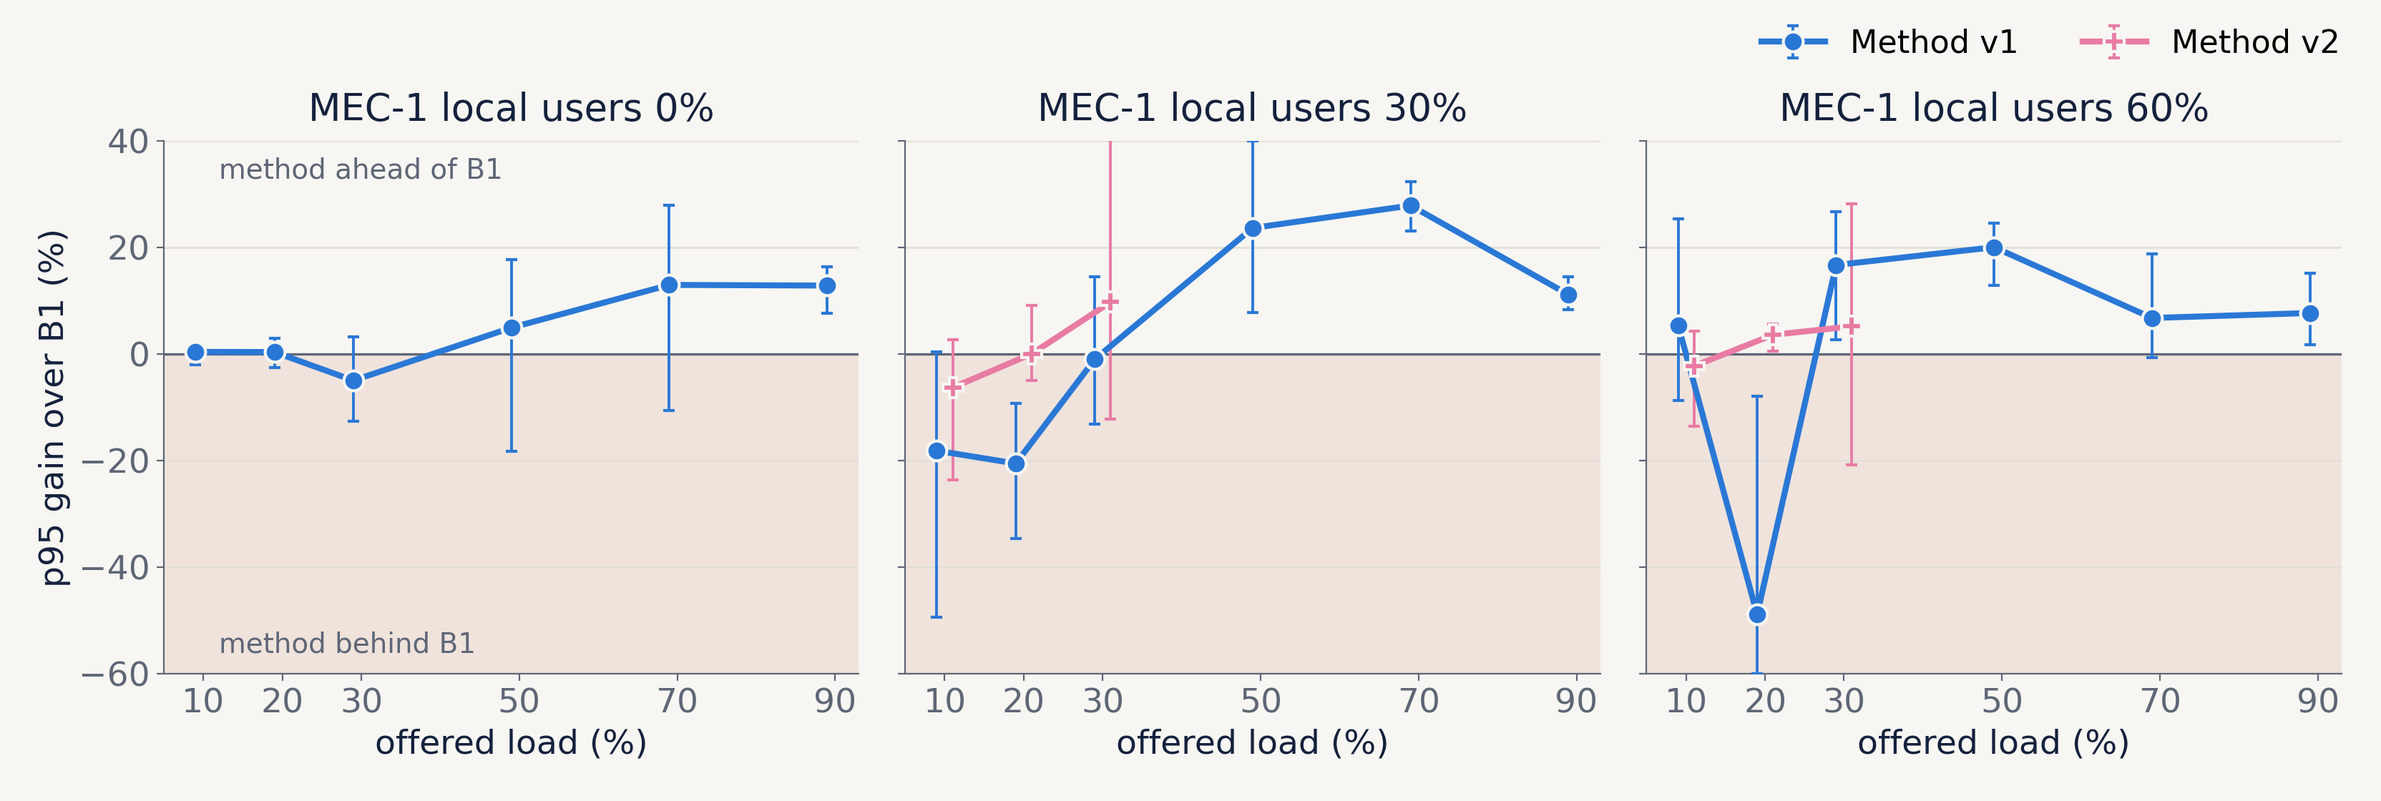
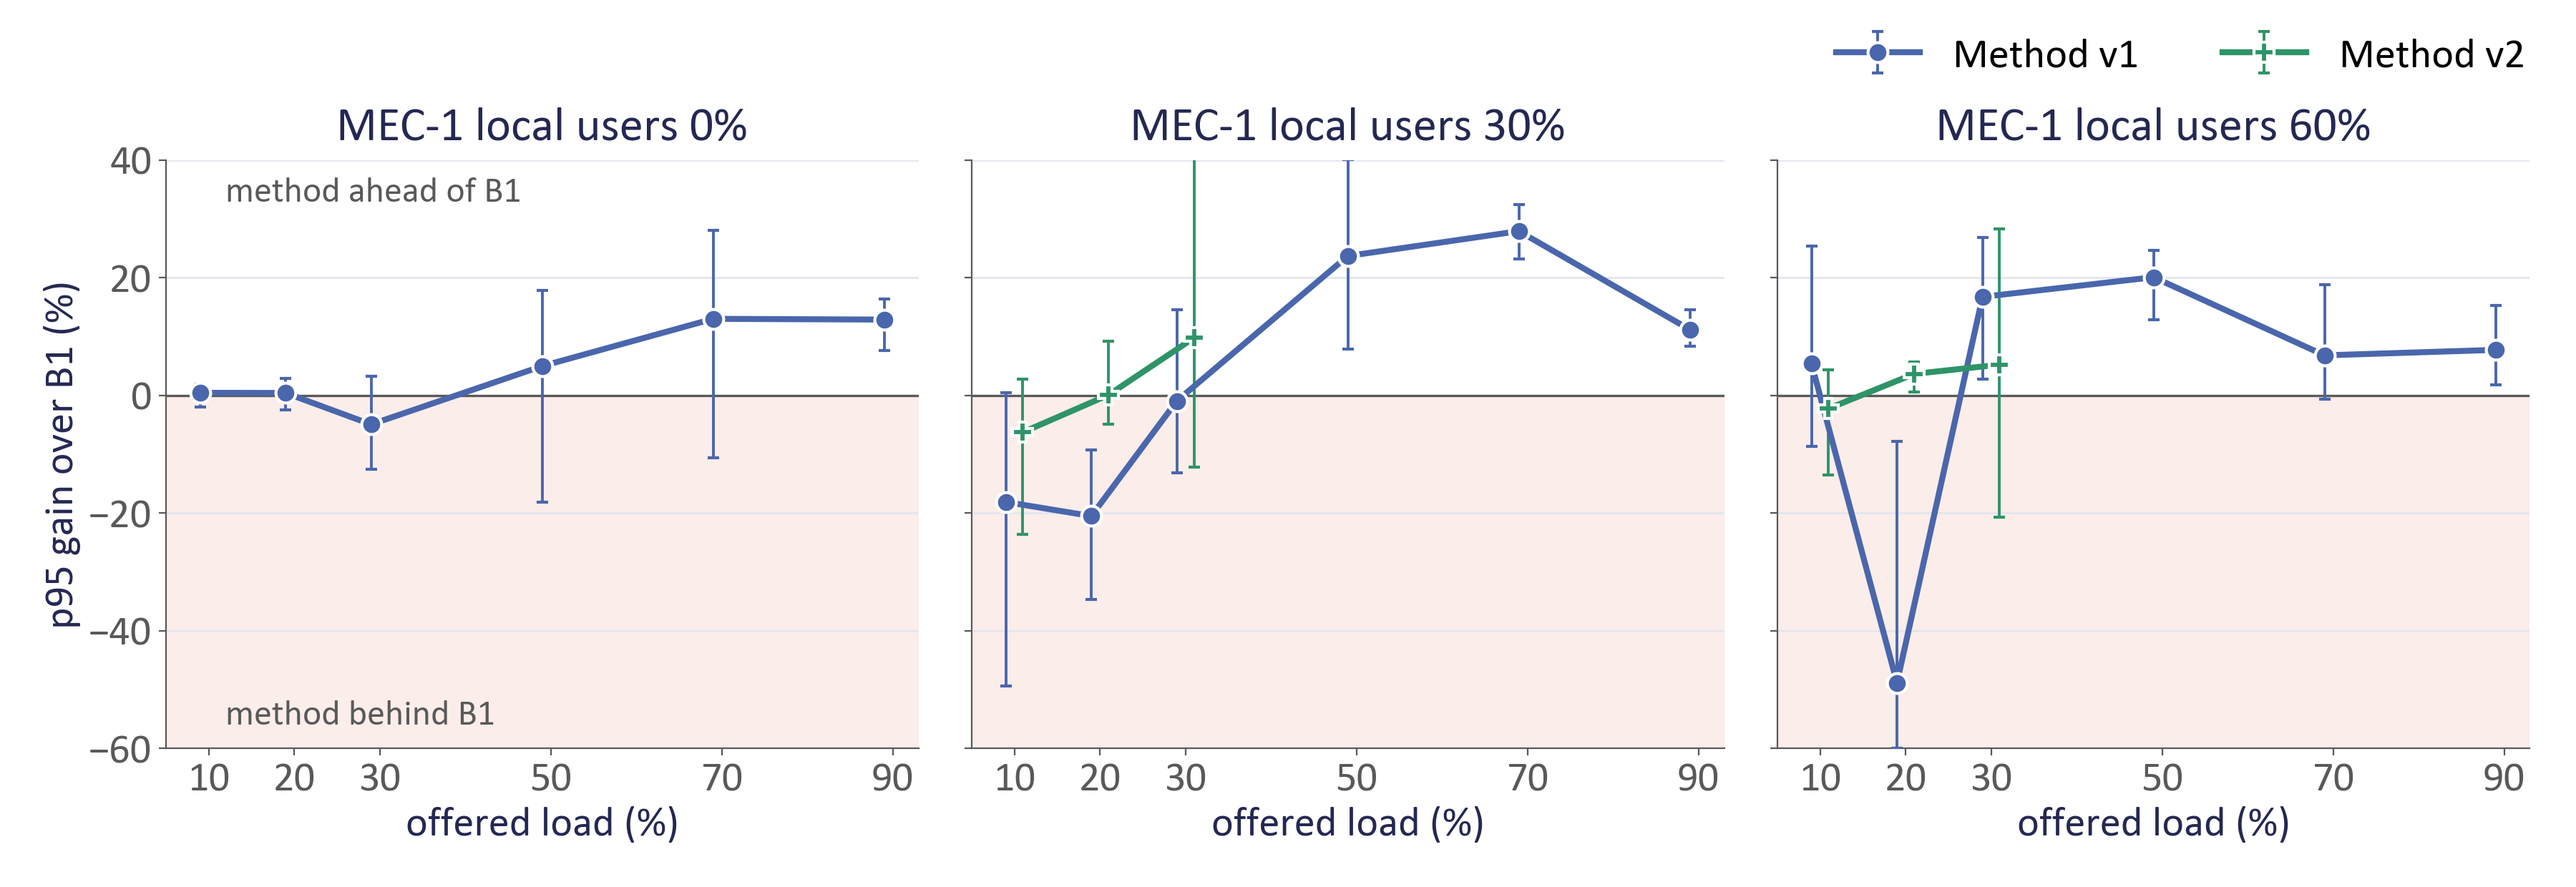
Slide chart in DCN Lab theme colours (white background, Calibri)

diff --git a/report/plot_sweep_slide.py b/report/plot_sweep_slide.py
@@ -10,18 +10,18 @@ matplotlib.use("Agg")
 import matplotlib.pyplot as plt  # noqa: E402
 
 cells = json.load(open(sys.argv[1]))["cells"]
-INK, MUTED, GRID, BG = "#14213D", "#5E6676", "#E2E0D8", "#F7F6F2"
-SER = {"method": ("Method v1", "#2A78D6", "o", -1.0), "method2": ("Method v2", "#E87BA4", "P", 1.0)}
+INK, MUTED, GRID, BG = "#242852", "#595959", "#E3E6EE", "#FFFFFF"
+SER = {"method": ("Method v1", "#4A66AC", "o", -1.0), "method2": ("Method v2", "#2E9468", "P", 1.0)}
 FLOOR, TOP = -60, 40
-plt.rcParams.update({"font.family": "DejaVu Sans", "font.size": 17, "axes.edgecolor": MUTED,
+plt.rcParams.update({"font.family": ["Calibri", "DejaVu Sans"], "font.size": 21, "axes.edgecolor": MUTED,
                      "xtick.color": MUTED, "ytick.color": MUTED, "axes.labelcolor": INK})
 skews = sorted({c["skew"] for c in cells})
-fig, axes = plt.subplots(1, len(skews), figsize=(16.64, 5.6), sharey=True, facecolor=BG)
+fig, axes = plt.subplots(1, len(skews), figsize=(18.0, 6.2), sharey=True, facecolor=BG)
 for ax, k in zip(axes, skews):
     ax.set_facecolor(BG)
     cs = sorted((c for c in cells if c["skew"] == k), key=lambda c: c["load"])
     xs = [100 * c["load"] for c in cs]
-    ax.axhspan(FLOOR, 0, color="#EFE3DC", zorder=0)
+    ax.axhspan(FLOOR, 0, color="#FBEDEA", zorder=0)
     ax.axhline(0, color=MUTED, lw=1.2, zorder=1)
     for pol, (name, col, mk, dx) in SER.items():
         have = [(x, c) for x, c in zip(xs, cs) if f"{pol}_vs_b1" in c["gain"]]
@@ -33,7 +33,7 @@ for ax, k in zip(axes, skews):
         hi = [100 * c["gain"][f"{pol}_vs_b1"]["p95"]["ci"][1] - v for v, (_, c) in zip(g, have)]
         ax.errorbar([x + dx for x, _ in have], g, yerr=[lo, hi], color=col, lw=3, marker=mk, ms=10,
                     mec=BG, mew=1.5, elinewidth=1.4, capsize=3, label=name, zorder=3)
-    ax.set_title(f"MEC-1 local users {100 * k:.0f}%", fontsize=19, color=INK, pad=10)
+    ax.set_title(f"MEC-1 local users {100 * k:.0f}%", fontsize=24, color=INK, pad=10)
     ax.set_xticks(xs)
     ax.set_xlabel("offered load (%)")
     ax.set_ylim(FLOOR, TOP)
@@ -42,10 +42,10 @@ for ax, k in zip(axes, skews):
     for s in ("top", "right"):
         ax.spines[s].set_visible(False)
 axes[0].set_ylabel("p95 gain over B1 (%)")
-axes[0].text(12, FLOOR + 3, "method behind B1", color=MUTED, fontsize=14, va="bottom")
-axes[0].text(12, TOP - 3, "method ahead of B1", color=MUTED, fontsize=14, va="top")
+axes[0].text(12, FLOOR + 3, "method behind B1", color=MUTED, fontsize=18, va="bottom")
+axes[0].text(12, TOP - 3, "method ahead of B1", color=MUTED, fontsize=18, va="top")
 h, lab = axes[1].get_legend_handles_labels()
-fig.legend(h, lab, loc="upper right", ncol=2, frameon=False, fontsize=16, bbox_to_anchor=(0.995, 1.0))
+fig.legend(h, lab, loc="upper right", ncol=2, frameon=False, fontsize=21, bbox_to_anchor=(0.995, 1.0))
 fig.tight_layout(rect=(0, 0, 1, 0.93))
 fig.savefig(sys.argv[2], dpi=200, facecolor=BG)
 print("wrote", sys.argv[2])
